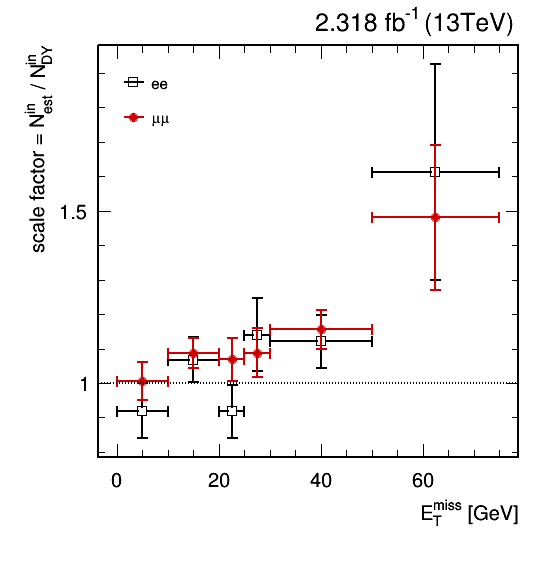
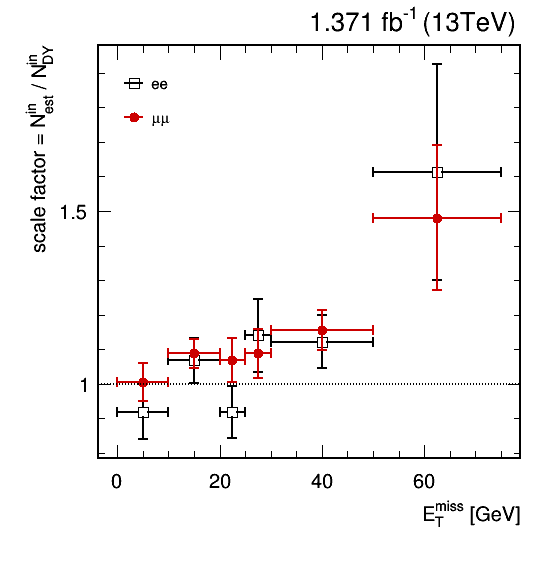
Minor changes

diff --git a/datadriven/getDYScale.C b/datadriven/getDYScale.C
@@ -1,7 +1,5 @@
 // Constants
 //------------------------------------------------------------------------------
-const double lumi_fb = 2.318;
-
 enum {
   ee,
   mm,
@@ -118,7 +116,8 @@ int          bin_metmax;
 //
 //~~~~~~~~~~~~~~~~~~~~~~~~~~~~~~~~~~~~~~~~~~~~~~~~~~~~~~~~~~~~~~~~~~~~~~~~~~~~~~
 void getDYScale(TString analysis = "TTDM",
-		TString level    = "01_Routin")
+		TString level    = "01_Routin",
+		double  lumi_fb  = 1.371)
 {
   gInterpreter->ExecuteMacro("../test/PaperStyle.C");
 
@@ -229,8 +228,8 @@ void getDYScale(TString analysis = "TTDM",
       mgraph[k]->GetXaxis()->SetTitle("E_{T}^{miss} [GeV]");
       mgraph[k]->GetYaxis()->SetTitle("R^{out/in} = N^{out} / N^{in}");
 
-      mgraph[k]->SetMinimum(0.0);
-      mgraph[k]->SetMaximum(0.4);
+      mgraph[k]->SetMinimum(-0.26);
+      mgraph[k]->SetMaximum(+0.51);
 
       DrawLegend(0.22, 0.83, (TObject*)graph_R_data[k], " " + lchannel[k] + " estimated (data)");
       DrawLegend(0.22, 0.77, (TObject*)graph_R_dy  [k], " " + lchannel[k] + " DY");
@@ -437,9 +436,9 @@ float errAB2(float a, float err_a, float b, float err_b)
 //------------------------------------------------------------------------------
 float errRatio(float a, float err_a, float b, float err_b)
 {
-  float ratio = a/b;
+  float ratio = fabs(a/b);
 
-  float err = (a/b) * sqrt((err_a*err_a)/(a*a) + (err_b*err_b)/(b*b));
+  float err = ratio * sqrt((err_a*err_a)/(a*a) + (err_b*err_b)/(b*b));
 
   return err;
 }
